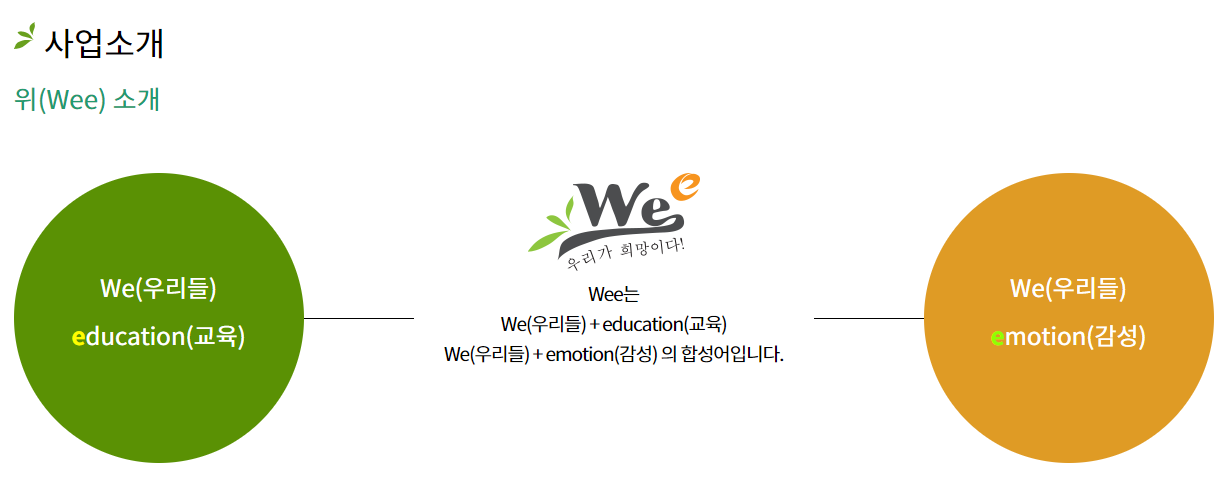
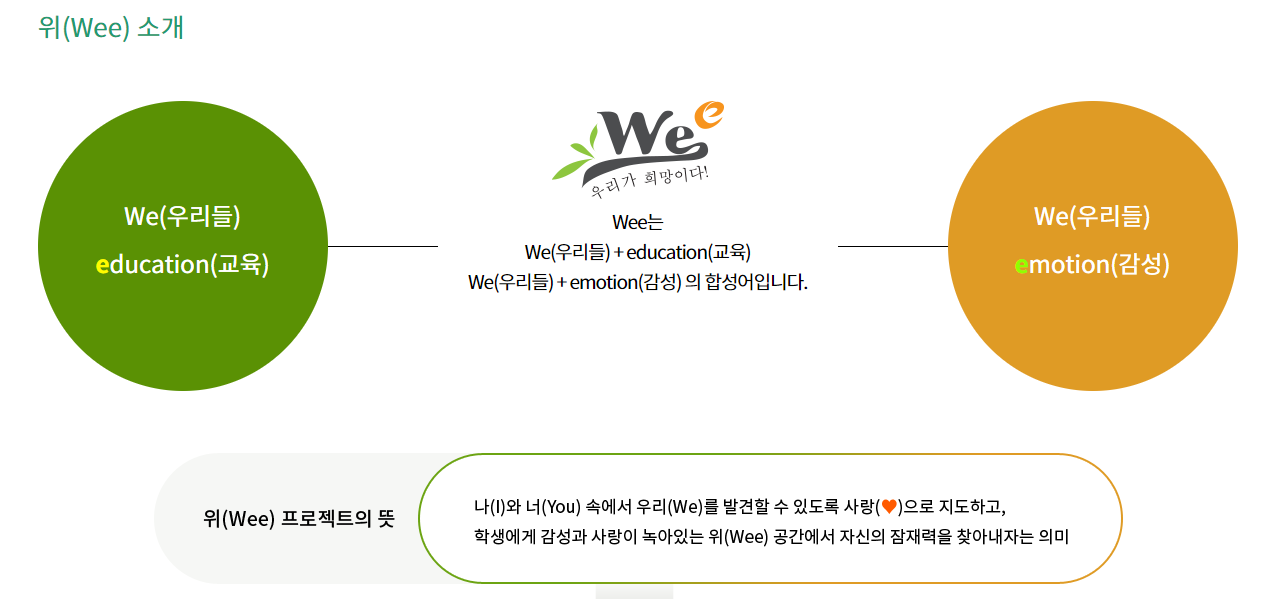
주석 수정, 일부 h3적용안되는 페이지 수정

diff --git a/source/lsj/weepl/src/main/resources/templates/boardCons/boardConsList.html b/source/lsj/weepl/src/main/resources/templates/boardCons/boardConsList.html
@@ -18,22 +18,27 @@
 			disalbed_direction.removeAttribute('onclick');
 		});
 		
+		// 상세글 행 클릭시 해당 글번호로 아이디 체크 실행
 		$(".board-content").on("click", function() {
 			var board_tr = $(this);
 			var board_cd = board_tr.children()[0].innerHTML;
-			console.log(board_cd);
 			checkName(board_cd);
 		});
 	});
+		// 아이디 체크
 		function checkName(boardCd){
 			var header = $("meta[name='_csrf_header']").attr('content');
 			var token = $("meta[name='_csrf']").attr('content');
 			const user = [[${#authentication.principal}]];
+			// 로그인한 유저가 접근할 경우
 			if(user != 'anonymousUser') {
 				const name = user.username;
+				// 관리자가 접근시 바로 상세글 조회
 				if(name == 'admin'){
 					location.href = "/boardCons/boardConsDtl/"+boardCd;
-				} else {
+				}
+				// 일반 유저일 경우 해당 글을 작성한 유저 아이디와 로그인한 아이디를 비교함
+				else {
 					$.ajax({
 						type:"post",
 						url:"/boardCons/getBoardMember",
@@ -42,9 +47,12 @@
 							xhr.setRequestHeader(header, token);
 						},
 						success: function(result){
+							// 해당 글을 작성한 유저아이디가 로그인한 아이디와 일치 시, 상세글 조회
 							if(name == result.result) {
 								location.href = "/boardCons/boardConsDtl/"+boardCd;
-							} else {
+							}
+							// 일치하지 않을때 비밀번호 입력 실행
+							else {
 								checkBoardPwd(header, token, boardCd);
 							}
 						},
@@ -53,14 +61,18 @@
 						}
 					});
 				}
-			} else {
+			}
+			// 비로그인 상태일 시, 비밀번호 입력 실행
+			else {
 				checkBoardPwd(header, token, boardCd);
 			}
 			
 		}
 		
+		// 비밀번호 입력 
 		function checkBoardPwd(header, token, boardCd) {
 			var password = prompt("비밀번호 입력");
+			// 취소 눌렀을때 아무 동작 안함
 			if(!password) {
 				return;
 			}
@@ -75,9 +87,12 @@
 					xhr.setRequestHeader(header, token);
 				},
 				success: function(confirmResult){
+					// 입력한 비밀번호와 상세 글 비밀번호 일치 시 상세 글 조회
 					if(confirmResult.result == "ENTER") {
 						location.href = "/boardCons/boardConsDtl/"+boardCd;
-					} else {
+					}
+					// 일치하지 않을 때 alert창 출력후, 아무 동작 안함
+					else {
 						alert('비밀번호가 맞지않습니다.');
 						return;
 					}

diff --git a/source/lsj/weepl/src/main/resources/templates/mypage/myReservation.html b/source/lsj/weepl/src/main/resources/templates/mypage/myReservation.html
@@ -46,7 +46,6 @@ body {
 				<table class="table-container">
 					<thead>
 						<tr>
-
 							<th>신청제목</th>
 							<th>신청내용</th>
 							<th>상담일</th>
@@ -63,7 +62,7 @@ body {
 							<td th:text="${reserveApply.reserveSchedule.reserveDate}"></td>
 							<td th:text="${reserveApply.reserveSchedule.reserveTime}"></td>
 							<td th:text="${reserveApply.reserveStatus}"></td>
-							<td><input type="button" value="비대면 상담 시작"
+							<td><input class="button-style" type="button" value="비대면 상담 시작"
 								th:disabled="!${reserveApply.reserveStatus == '예약완료'}"
 								th:onclick="new_window([[${reserveApply.reserveSchedule.reserveDate}]],[[${reserveApply.reserveSchedule.reserveTime}]],[[${reserveApply.reserveApplyCd}]])">
 							</td>

diff --git a/source/lsj/weepl/src/main/resources/templates/etc/weeSymbol.html b/source/lsj/weepl/src/main/resources/templates/etc/weeSymbol.html
@@ -12,6 +12,9 @@
 
 <th:block layout:fragment="css">
 	<style>
+	.subview {
+		width: 1290px;
+	}
 </style>
 </th:block>
 </head>
@@ -19,7 +22,8 @@
 <body>
 	<div layout:fragment="content" class="content-wrapper">
 		<div class="subview">
-			<img src="/img/symbol1.PNG"> <img src="/img/symbol2.PNG">
+			<h3>BI</h3>
+			<img src="/img/symbol.PNG"> <img src="/img/colorNfont.PNG">
 		</div>
 	</div>
 </body>

diff --git a/source/lsj/weepl/src/main/resources/templates/etc/weeProjectInfo.html b/source/lsj/weepl/src/main/resources/templates/etc/weeProjectInfo.html
@@ -12,6 +12,9 @@
 
 <th:block layout:fragment="css">
 	<style>
+	.subview {
+		width: 1290px;
+	}
 </style>
 </th:block>
 </head>
@@ -19,6 +22,7 @@
 <body>
 	<div layout:fragment="content" class="content-wrapper">
 		<div class="subview">
+			<h3>사업소개</h3>
 			<img src="/img/info1.PNG"> <img src="/img/info2.PNG">
 		</div>
 	</div>

diff --git a/source/lsj/weepl/src/main/resources/templates/admin/untactConsSchMng.html b/source/lsj/weepl/src/main/resources/templates/admin/untactConsSchMng.html
@@ -28,14 +28,15 @@
   	border-color: #4c4c4e;
 	margin-top: 20px;
 	margin-bottom: 20px;
-	width: 500px;
+	width: 525px;
 	height: 300px;
 	overflow: auto;
 }
 
 .sch {
+	width: 85px;
 	display: inline-block;
-	margin: 5px;
+	margin: 3px;
 	padding: 8px 18px;
 	font-size: 14px;
 	color: #383d41;

diff --git a/source/lsj/weepl/src/main/java/com/weepl/handler/AccountLoginSuccessHandler.java b/source/lsj/weepl/src/main/java/com/weepl/handler/AccountLoginSuccessHandler.java
@@ -37,7 +37,7 @@ public class AccountLoginSuccessHandler implements AuthenticationSuccessHandler 
 	public void onAuthenticationSuccess(HttpServletRequest request, HttpServletResponse response,
 			Authentication authentication) throws IOException, ServletException {
 		User user = (User) authentication.getPrincipal();
-		// 로그인 5회 실패 전 로그인 성공할경우 실패 횟수 리셋을 위해 엔티티 조회
+		// 회원 Status 확인을 위한 엔티티 조회
 		Member member = memberRepository.findById(user.getUsername());
 		if (MemberStatus.QUIT.equals(member.getStatus())) {
 			// 아래 예외로 인해 로그인 실패가 발생하고, 로그인 실패 핸들러 호출됨
